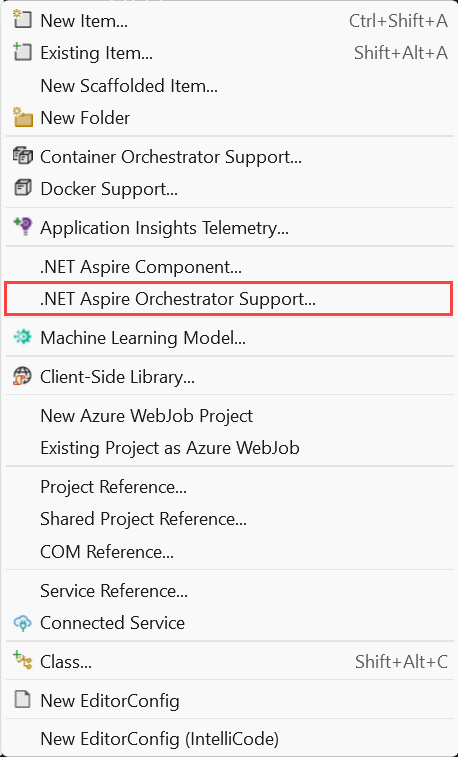
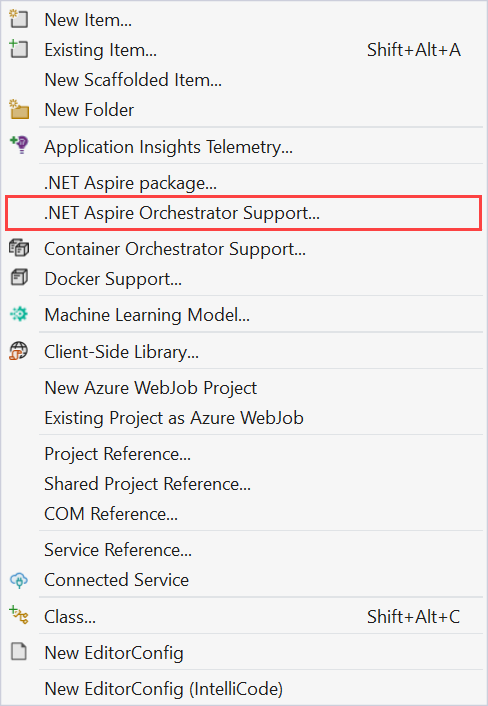
More issues (#751)
* Delete old image, point to updated & shared version

* Fix image for add package bits.

* More fixed images

diff --git a/docs/fundamentals/setup-tooling.md b/docs/fundamentals/setup-tooling.md
@@ -1,7 +1,7 @@
 ---
 title: .NET Aspire tooling
 description: Learn about essential tooling concepts for .NET Aspire.
-ms.date: 04/23/2024
+ms.date: 04/25/2024
 ---
 
 # .NET Aspire setup and tooling
@@ -193,7 +193,7 @@ dotnet new aspire-starter
 
 The .NET Aspire dashboard is only visible while the app is running and starts automatically when you start the **.AppHost** project. Visual Studio launches both your app and the .NET Aspire dashboard for you automatically in your browser. If you start the app using the .NET CLI, copy and paste the dashboard URL from the output into your browser, or hold <kbd>Ctrl</kbd> and select the link (if your terminal supports hyperlinks).
 
-:::image type="content" source="../media/run-dashboard-cli.png" alt-text="A screenshot showing how to launch the dashboard using the CLI.":::
+:::image type="content" source="dashboard/media/explore/dotnet-run-login-url.png" lightbox="dashboard/media/explore/dotnet-run-login-url.png" alt-text="A screenshot showing how to launch the dashboard using the CLI.":::
 
 The left navigation provides links to the different parts of the dashboard, each of which you'll explore in the following sections.
 
@@ -203,11 +203,11 @@ The left navigation provides links to the different parts of the dashboard, each
 
 Visual Studio provides additional features for working with .NET Aspire components and the App Host orchestrator project. These features are currently not available in Visual Studio Code or through the CLI.
 
-### Add a component
+### Add a component package
 
 You add .NET Aspire components to your app like any other NuGet package using Visual Studio. However, Visual Studio also provides UI options to add .NET Aspire components directly.
 
-1. In Visual Studio, right click on the project you want to add an .NET Aspire component to and select **Add** > **.NET Aspire Component...**.
+1. In Visual Studio, right click on the project you want to add an .NET Aspire component to and select **Add** > **.NET Aspire package...**.
 
     :::image type="content" source="../media/visual-studio-add-aspire-component.png" lightbox="../media/visual-studio-add-aspire-component.png" alt-text="The Visual Studio context menu displaying the Add .NET Aspire Component option.":::
 
